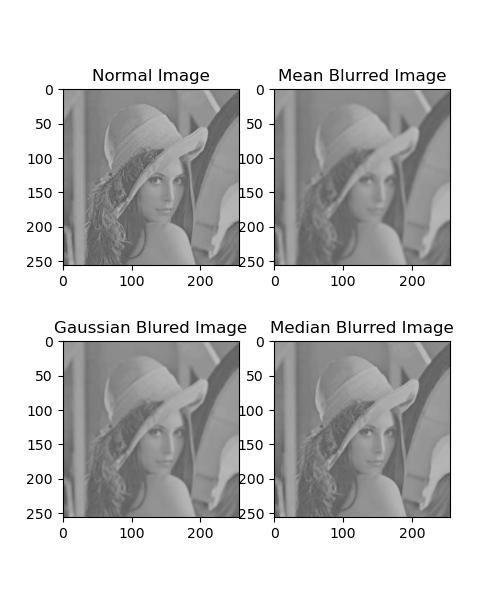
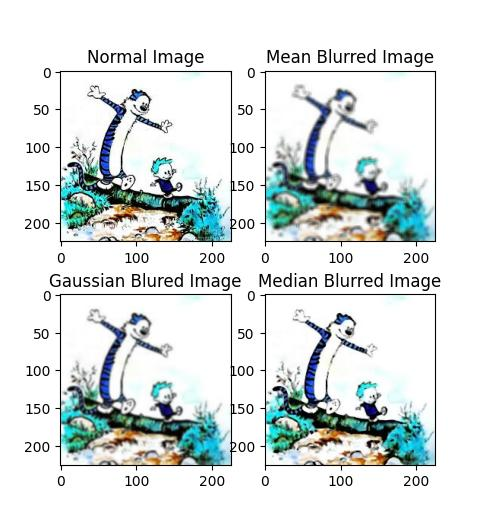
commit to main

diff --git a/Image_processing/deneme.py b/Image_processing/deneme.py
@@ -1,28 +1,8 @@
 import cv2
 import matplotlib.pyplot as plt
 
-
-image = cv2.imread("images\\input\\lowContrast.png", cv2.IMREAD_COLOR)
-print(f"original image shape: {image.shape}")
-
-
-new_height = 200
-new_width = 250
-
-resized_image = cv2.resize(image, (new_width, new_height))
-cv2.imwrite("images\\output\\resized_image.jpg", resized_image)
-print(f"resized image shape: {resized_image.shape}")
-
-# fig, axes = plt.subplots(1, 2, figsize=(10, 5))  
-
-# axes[0].imshow(image)
-# axes[0].set_title('Normal Image')
-
-# axes[1].imshow(resized_image)
-# axes[1].set_title('Resized Image')
-
-# fig.savefig("images/outputs/normal_resized.png")
-
+#image okundu
+image = cv2.imread("Image_processing\\images\\input\\calvinHobbes.jpeg", cv2.IMREAD_COLOR)
 
 #Mean Blur
 mean_blurred = cv2.blur(image,(5,5))
@@ -32,8 +12,6 @@ gaussian_blurred = cv2.GaussianBlur(image,(5,5),0) #burdaki 0 değeri standart s
 
 #Median Blur
 median_blurred = cv2.medianBlur(image,(3))
-
-
 
 fig, axes = plt.subplots(2, 2, figsize=(5, 6))  
 
@@ -49,8 +27,37 @@ axes[1,0].set_title('Gaussian Blured Image')
 axes[1,1].imshow(median_blurred)
 axes[1,1].set_title('Median Blurred Image')
 
+plt.show()
+fig.savefig("Image_processing/images/output/blurred_images.jpg")
+
+
+
+
+# print(f"original image shape: {image.shape}")
+
+# size = 200
+
+# #image resize edildi
+# resized_image = cv2.resize(image, (size, size))
+
+# #image output klasörüne kaydedildi
+# cv2.imwrite("Image_processing\\images\\output\\resized_image.jpg", resized_image)
+# print(f"resized image shape: {resized_image.shape}")
+
+# fig, axes = plt.subplots(1, 2, figsize=(10, 5))  
+
+# axes[0].imshow(image)
+# axes[0].set_title('Normal Image')
+
+# axes[1].imshow(resized_image)
+# axes[1].set_title('Resized Image')
+# #figür ekrana bastırıldı
 # plt.show()
-fig.savefig("images/output/blurred_images.jpg")
+# #images output klasörüne kaydedildi
+# fig.savefig("Image_processing/images/output/normal_resized.png")
+
+
+
 
 
 # cv2.imshow("blurred image", gaussian_blurred)
